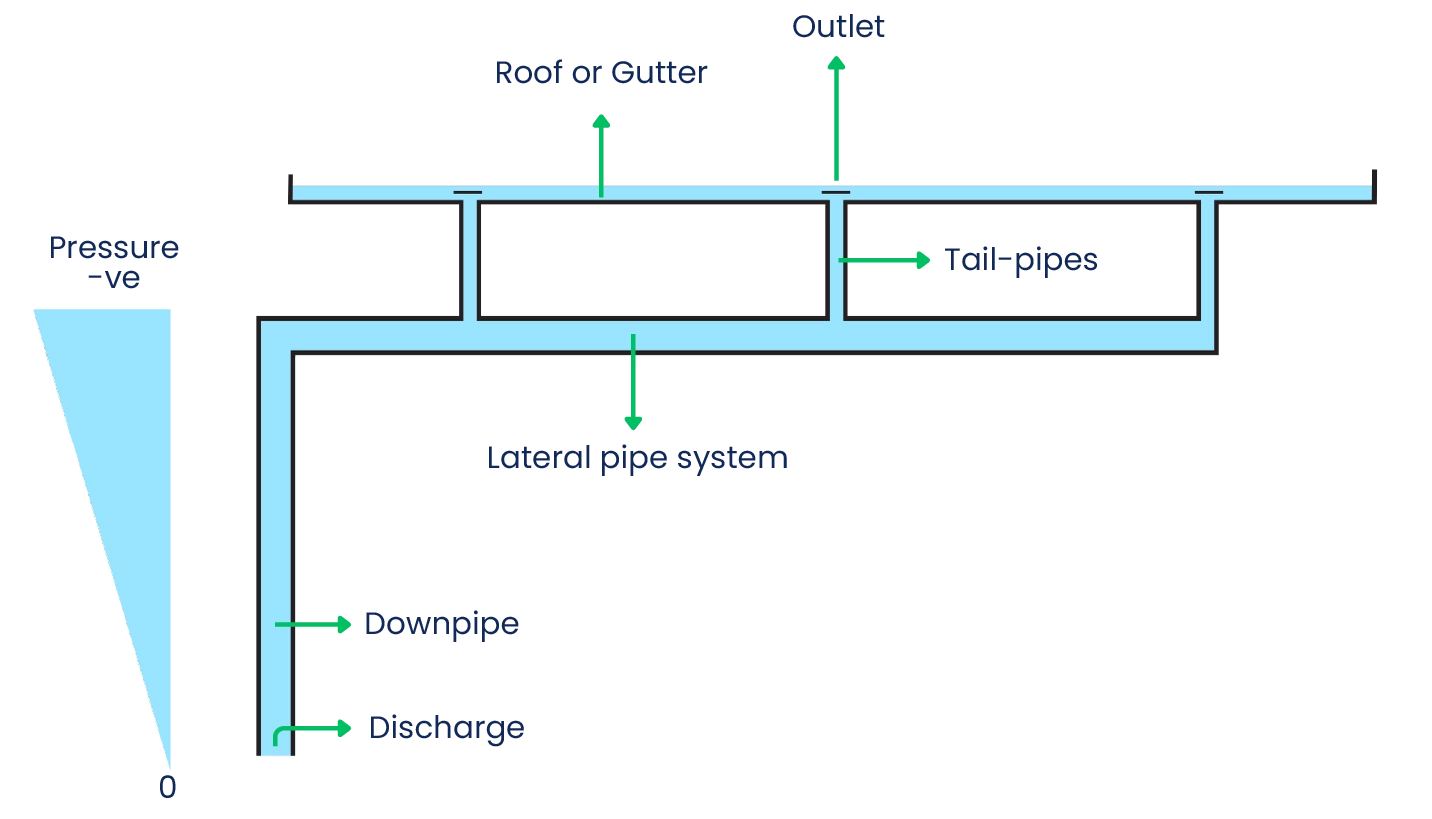
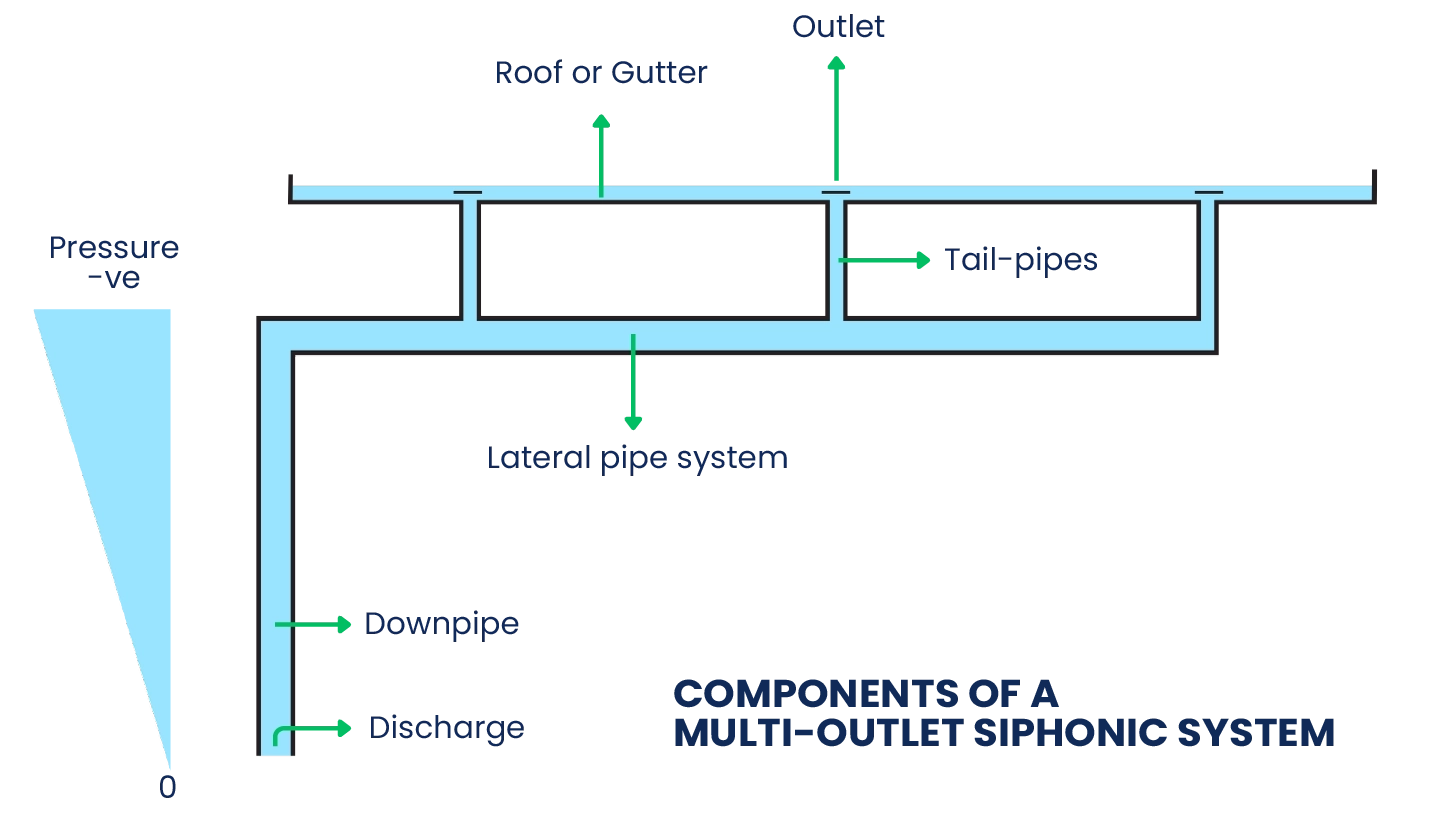
SIFLUX second push

Changed region(s): [[0.4609, 0.8242, 0.9525, 0.9158]]

diff --git a/src/components/About/AboutUs.js b/src/components/About/AboutUs.js
@@ -1,9 +1,9 @@
-import  { useRef, useEffect, useState } from "react";
+import { useRef, useEffect, useState } from "react";
 import FooterDark from "../GlobalComponents/FooterDark";
 import Navbar from "../GlobalComponents/NavBar";
 import CardCarousel from "./Marquee";
 import india from "../../assets/AboutPage/siflux global and india/24.webp";
-import world from "../../assets/AboutPage/siflux global and india/21.jpg";
+import world from "../../assets/AboutPage/siflux global and india/23.webp";
 
 //logos
 import logo1 from "../../assets/AboutPage/logos/bulb.png";
@@ -706,16 +706,16 @@ const AboutUs = () => {
             </div>
           </div>
         </div>
-
+        {/* Rest of your sections remain unchanged */}
         {/* Rest of your sections remain unchanged */}
         <div className="relative bg-white py-12 md:py-16 lg:py-20">
           <div className="absolute -top-6 left-1/2 transform -translate-x-1/2 z-20">
             <div className="bg-white rounded-t-full w-[65px] h-[65px]"></div>
           </div>
 
-          <div className="container mx-auto px-4 md:px-8 lg:px-16 xl:pl-[7.25rem] max-w-7xl">
-            <div className="grid lg:grid-cols-10 gap-8 lg:gap-0 items-start lg:items-center">
-              <div className="lg:col-span-7 order-2 lg:order-1">
+          <div className="flex flex-col lg:flex-row gap-8 lg:gap-0 items-start lg:items-center">
+            <div className="flex-1 order-2 lg:order-1">
+              <div className="container mx-auto px-4 md:px-8 lg:px-16 xl:pl-[7.25rem] max-w-7xl">
                 <h2 className="mb-6 md:mb-8">
                   <span className="block text-[#07B7E0] font-bold text-lg md:text-2xl lg:text-[24px] uppercase font-['DM_Sans'] leading-tight mb-1">
                     SI-FLUX
@@ -765,11 +765,14 @@ const AboutUs = () => {
                   </p>
                 </div>
               </div>
-              <div className="lg:col-span-3 order-1 lg:order-2">
+            </div>
+            <div className="flex-1 order-1 lg:order-2 lg:pl-5 pl-[32px] lg:pl-5">
+              {" "}
+              <div className="w-full max-w-sm md:max-w-md lg:max-w-none h-[400px] md:h-[500px] lg:h-[600px]">
                 <img
                   src={world}
                   alt="World Map Graphic"
-                  className="w-full h-[300px] md:h-[400px] lg:h-[600px] object-cover rounded-lg lg:rounded-none"
+                  className="w-full h-full object-contain rounded-lg lg:rounded-none"
                 />
               </div>
             </div>
@@ -781,17 +784,21 @@ const AboutUs = () => {
             <div className="bg-gray-100 rounded-t-full w-[65px] h-[65px]"></div>
           </div>
 
-          <div className="container mx-auto px-4 md:px-8 lg:px-16 max-w-7xl">
-            <div className="grid lg:grid-cols-10 gap-8 lg:gap-16 items-start lg:items-center">
-              <div className="lg:col-span-3 order-1">
-                <img
-                  src={india}
-                  alt="India Map Graphic"
-                  className="w-full h-[250px] md:h-[350px] lg:h-[400px] object-cover rounded-lg lg:rounded-none"
-                />
-              </div>
+          <div className="flex flex-col lg:flex-row gap-8 lg:gap-0 items-start lg:items-center">
+            <div className="flex-1 order-1 lg:pr-5 pl-[80px] lg:pl-0">
+              {" "}
+             <div className="w-full h-[350px] md:h-[450px] lg:h-[500px] flex items-center justify-center lg:block">
+  <img
+    src={india}
+    alt="India Map Graphic"
+    className="w-full h-full object-contain rounded-lg lg:rounded-none"
+  />
+</div>
 
-              <div className="lg:col-span-7 order-2">
+            </div>
+
+            <div className="flex-1 order-2">
+              <div className="container mx-auto px-4 md:px-8 lg:px-16 max-w-7xl">
                 <div className="max-w-[863px] lg:ml-auto">
                   <div className="mb-4 md:mb-6">
                     <span className="block text-[#07B7E0] font-bold text-lg md:text-2xl lg:text-[24px] uppercase font-['DM_Sans'] leading-tight mb-1">
@@ -817,7 +824,6 @@ const AboutUs = () => {
             </div>
           </div>
         </div>
-
         <div className="w-full mb-8 md:mb-12 lg:mb-16">
           <CardCarousel />
         </div>

diff --git a/src/components/ContactUs/ContactUs.js b/src/components/ContactUs/ContactUs.js
@@ -85,7 +85,7 @@ function ContactUs() {
               <div className="space-y-6 sm:space-y-8 w-full lg:w-auto">
                 <div>
                   <p
-                    className="uppercase mb-2 text-center lg:text-left"
+                    className="uppercase mb-2 text-left"
                     style={{
                       color: "#10295A",
                       fontFamily: '"DM Sans"',
@@ -98,7 +98,7 @@ function ContactUs() {
                     CONTACT US
                   </p>
                   <h1
-                    className="uppercase text-center lg:text-left"
+                    className="uppercase text-left"
                     style={{
                       color: "#07B7E0",
                       fontFamily: '"DM Sans"',
@@ -114,7 +114,7 @@ function ContactUs() {
 
                 <div className="space-y-4 sm:space-y-6">
                   <h2
-                    className="text-center lg:text-left"
+                    className="text-left"
                     style={{
                       color: "#10295A",
                       fontFamily: '"DM Sans"',
@@ -126,7 +126,7 @@ function ContactUs() {
                     Si-Flux India Pvt. Ltd.
                   </h2>
 
-                  <div className="space-y-4 max-w-sm mx-auto lg:mx-0">
+                  <div className="space-y-4 max-w-sm mx-0">
                     <div className="flex items-start space-x-3">
                       <MapPin className="w-5 h-5 text-gray-600 mt-1 flex-shrink-0" />
                       <div

diff --git a/src/App.js b/src/App.js
@@ -1,20 +1,38 @@
 import { Routes, Route } from "react-router-dom";
+import { useEffect } from "react";
+import { useLocation } from "react-router-dom";
 import Home from "./components/Home/Home";
 import Services from "./components/Services/Services";
 import AboutUs from "./components/About/AboutUs";
 import SiphonicTech from "./components/Siphonic/SiphonicTech";
 import ContactUs from "./components/ContactUs/ContactUs";
 
-function AppRoutes() {
+// ScrollToTop component inline
+function ScrollToTop() {
+  const { pathname } = useLocation();
+
+  useEffect(() => {
+    window.scrollTo(0, 0);
+  }, [pathname]);
+
+  return null;
+}
+
+function App() {
   return (
-    <Routes>
-      <Route path="/" element={<Home />} />
-      <Route path="/about" element={<AboutUs />} />
-      <Route path="/siphonic-technology" element={<SiphonicTech />} />
-      <Route path="/services" element={<Services />} />
-      <Route path="/contact" element={<ContactUs />} />
-    </Routes>
+    <>
+      <ScrollToTop />
+      <div className="App">
+        <Routes>
+          <Route path="/" element={<Home />} />
+          <Route path="/about" element={<AboutUs />} />
+          <Route path="/siphonic-technology" element={<SiphonicTech />} />
+          <Route path="/services" element={<Services />} />
+          <Route path="/contact" element={<ContactUs />} />
+        </Routes>
+      </div>
+    </>
   );
 }
 
-export default AppRoutes;
+export default App;

diff --git a/src/components/Siphonic/SiphonicTech.js b/src/components/Siphonic/SiphonicTech.js
@@ -92,38 +92,7 @@ const SiphonicTech = () => {
               alt="components of a multi outlet siphonic system"
               className="w-full h-auto object-contain"
             />
-            <div className="flex justify-end mt-0">
-              <h3 className="text-LEFT max-w-[600px]">
-                <span
-                  className="block"
-                   style={{
-                    color: "#10295A",
-                    fontFeatureSettings: '"liga" off, "clig" off',
-                    fontFamily: '"DM Sans"',
-                    fontSize: "clamp(16px, 3vw, 28px)",
-                    fontStyle: "normal",
-                    fontWeight: "700",
-                    lineHeight: "1.2",
-                  }}
-                >
-               COMPONENTS OF A 
-                </span>
-                <span
-                  className="block"
-                  style={{
-                    color: "#10295A",
-                    fontFeatureSettings: '"liga" off, "clig" off',
-                    fontFamily: '"DM Sans"',
-                    fontSize: "clamp(16px, 3vw, 28px)",
-                    fontStyle: "normal",
-                    fontWeight: "700",
-                    lineHeight: "1.2",
-                  }}
-                >
-               MULTI-OUTLET SIPHONIC SYSTEM
-                </span>
-              </h3>
-            </div>
+          
           </div>
        
         </div>

diff --git a/src/index.js b/src/index.js
@@ -7,13 +7,12 @@ import { BrowserRouter } from "react-router-dom"; // ✅ import BrowserRouter
 
 const root = ReactDOM.createRoot(document.getElementById("root"));
 root.render(
-  <React.StrictMode>
+  // <React.StrictMode>
     <BrowserRouter>
-      {" "}
-      {/* ✅ Wrap with BrowserRouter */}
+
       <App />
     </BrowserRouter>
-  </React.StrictMode>
+  // </React.StrictMode>
 );
 
 reportWebVitals();

diff --git a/src/components/Services/Services.js b/src/components/Services/Services.js
@@ -28,10 +28,7 @@ const Services = () => {
         {/* Gradient Overlay on Background */}
         <div
           className="absolute inset-0"
-          style={{
-            background:
-              "linear-gradient(180deg, #2563eb 0%, #3b82f6 40%, #60a5fa 70%, #bae6fd 100%)",
-          }}
+          style={{ backgroundColor: "#10295A" }}
         />
       </div>
 

diff --git a/src/components/About/Marquee.js b/src/components/About/Marquee.js
@@ -24,7 +24,7 @@ function CardCarousel({ socialMediaData }) {
         gradient={true} // Enable gradient
         gradientColor={[248, 251, 253]} // RGB color for the gradient
         speed={50}
-        pauseOnHover={true}
+        // pauseOnHover={true}
         className="custom-marquee"
       >
         {loopingCards.map((card, index) => (

diff --git a/src/components/ScrollToTop.jsx b/src/components/ScrollToTop.jsx
@@ -1,0 +1,14 @@
+import { useEffect } from 'react';
+import { useLocation } from 'react-router-dom';
+
+function ScrollToTop() {
+  const { pathname } = useLocation();
+
+  useEffect(() => {
+    window.scrollTo(0, 0);
+  }, [pathname]);
+
+  return null;
+}
+
+export default ScrollToTop;
